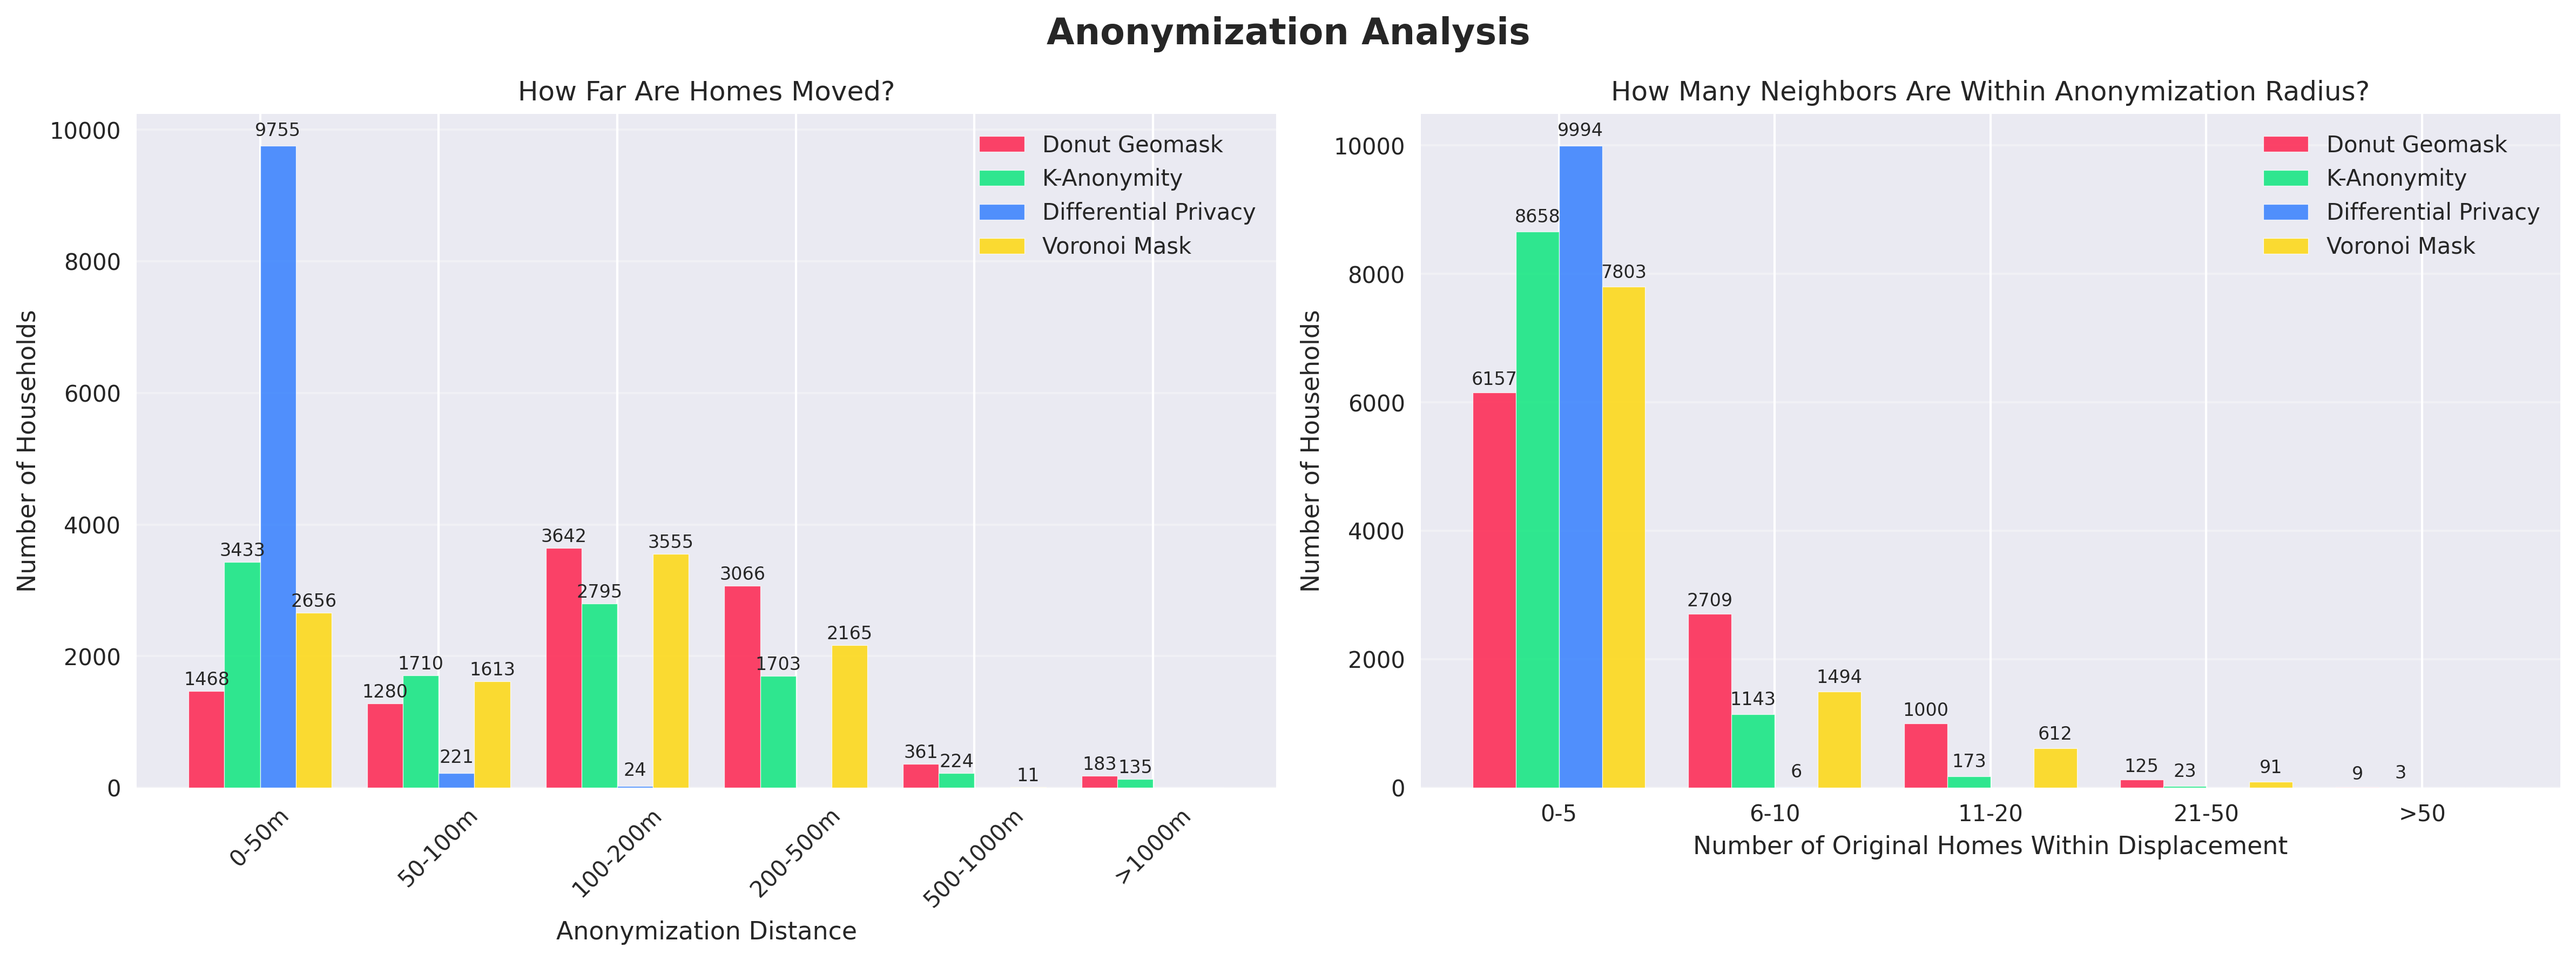
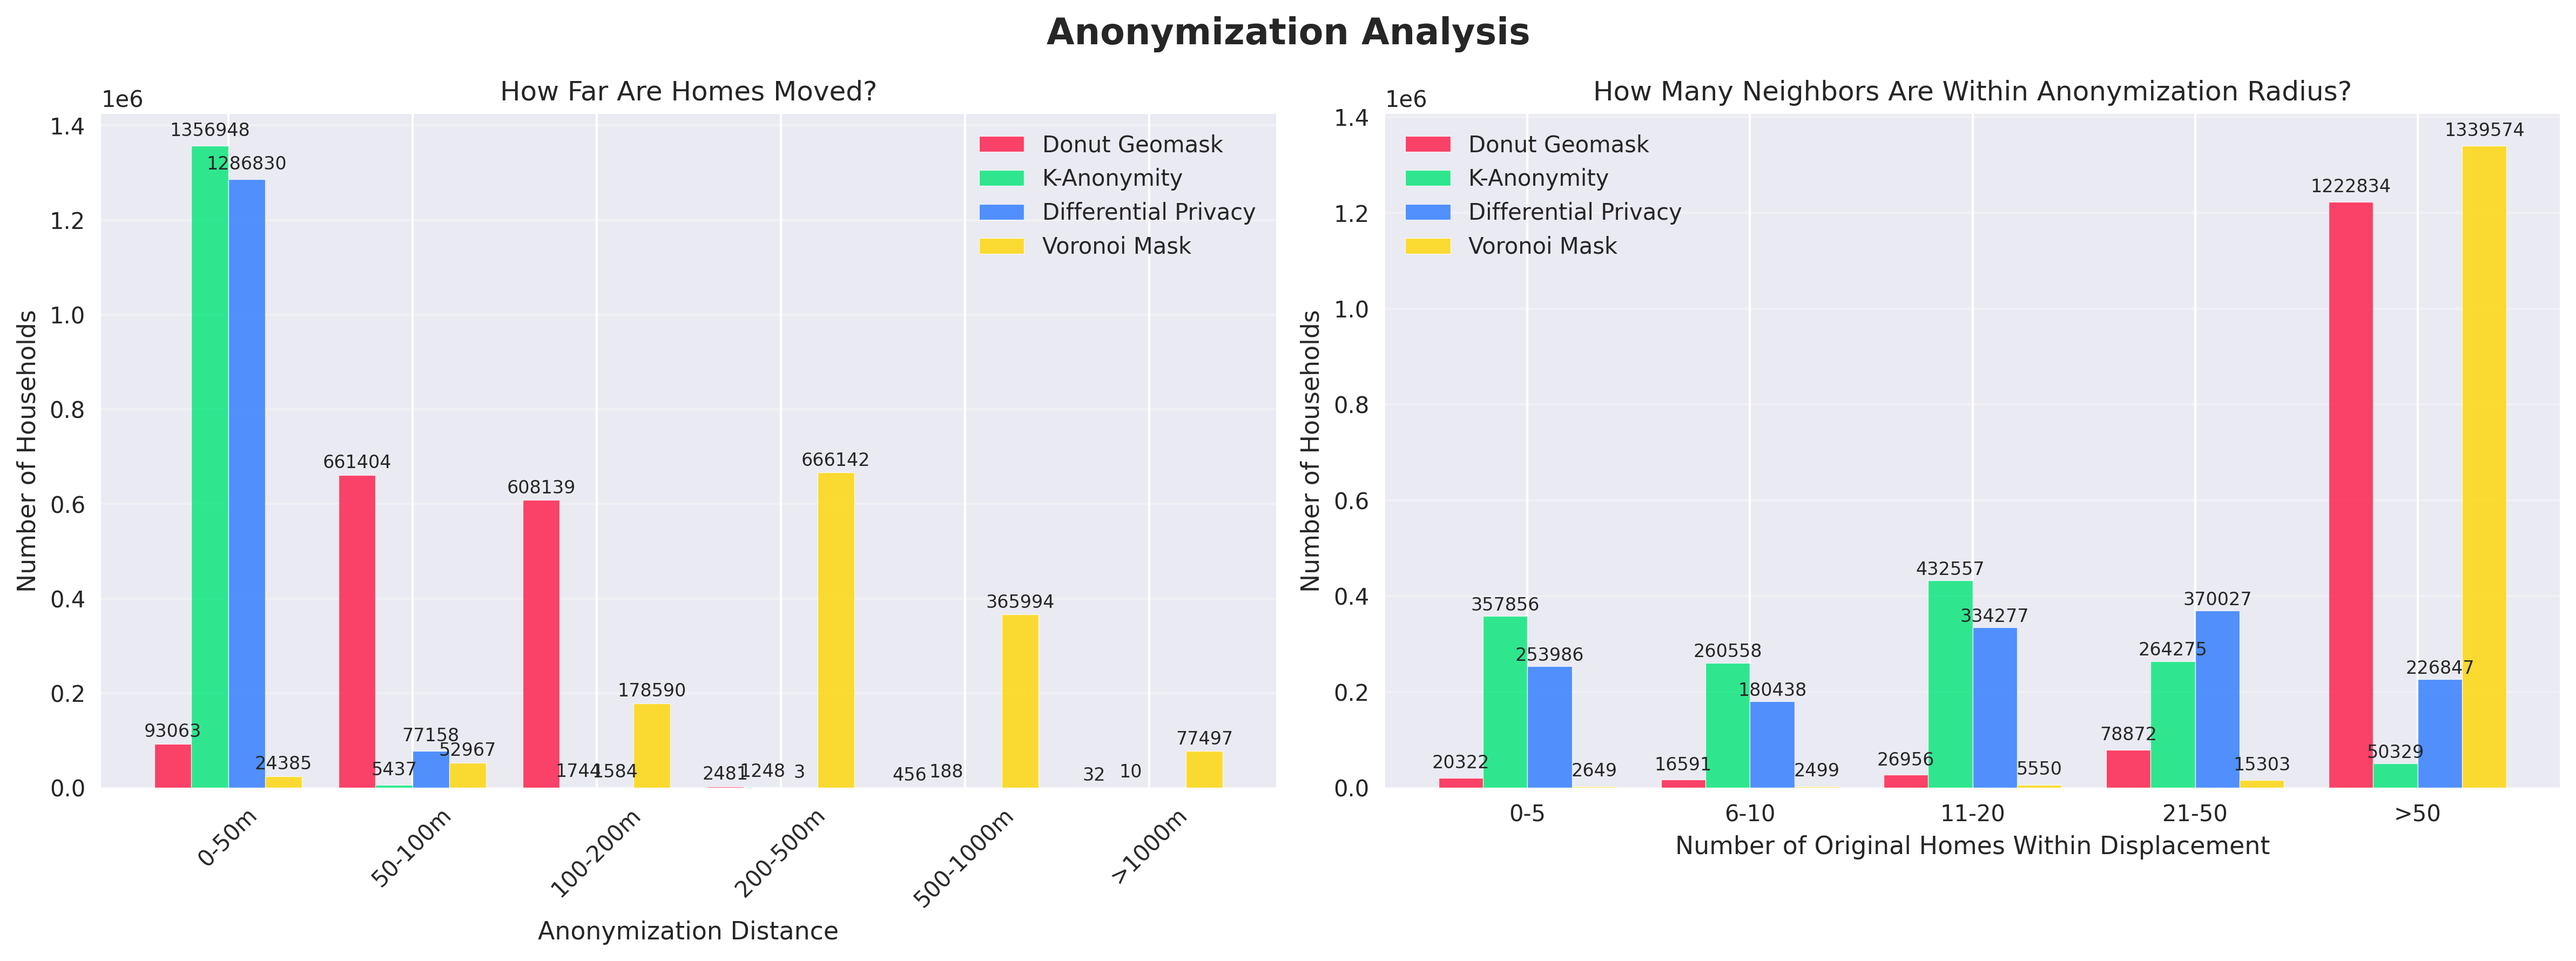
add new anonimization plots

diff --git a/anonimization/analyze_results.py b/anonimization/analyze_results.py
@@ -16,10 +16,10 @@ def create_anonymization_plots():
     
     # File mapping
     files = {
-        'Donut Geomask': 'anonymized_10k_donut_geomask.csv',
-        'K-Anonymity': 'anonymized_10k_k_anonymity.csv', 
-        'Differential Privacy': 'anonymized_10k_differential_privacy.csv',
-        'Voronoi Mask': 'anonymized_10k_voronoi_mask.csv'
+        'Donut Geomask': '/cluster/home/chaoch/full_donut_geomask.csv',
+        'K-Anonymity': '/cluster/home/chaoch/full_k_anonymity.csv', 
+        'Differential Privacy': '/cluster/home/chaoch/full_differential_privacy.csv',
+        'Voronoi Mask': '/cluster/home/chaoch/full_voronoi_mask.csv'
     }
     
     # Colors for each method

diff --git a/matsim/simulation/run.py b/matsim/simulation/run.py
@@ -34,8 +34,6 @@ def execute(context):
             # so one should set this to something other than 0, and preferebly to something 
             # that will output trips file at the end of the simulation
             "--config:controller.writeTripsInterval", str(1),
-            "--config:linkStats.writeLinkStatsInterval", str(1),
-            "--config:linkStats.averageLinkStatsOverIterations", str(1),
             "--config:eqasim.useScheduleBasedTransport", scheduleBasedPTconfig,
         ])
     else:

diff --git a/anonymization.md b/anonymization.md
@@ -1,0 +1,162 @@
+# Anonymization Methods
+
+## 1. Density-Aware Geomasking
+> finds a new random location that is within a min and max radius depending on the distance to the k-nearest neighbour. 
+
+1. Create KD tree to find nearest neighbour
+2. Compute maximum radius `r_max` of the perturbation region based on point's distance to kth nearest neighbour. 
+3. Samples a random new location within a donut (`[r_min, r_max]`). Moves to this new location if it's a valid location. Otherwise, move it to neighbour's location
+
+## 2. Spatial k-Anonymity
+> finds a radius that encapsulates k neighbours and samples a random location within that radius. Lacks formal guarantees.
+1. Using KD tree determines the distance needed to contain k nearest neighbours
+2. Can project to a region, centroid of the k-neighbours, or random location within the circle
+(not sure how to deal with region identifiers)
+
+## 3. Geo-Differential Privacy
+> Given a privacy budget, moves coordinates according to a Laplace distribution
+1. Samples `dx` and `dy` from Laplace distribution based on privacy budget `epsilon`. `epsilon` is the inverse of the variance of the Laplace distribution.
+(not density aware)
+
+## 4. Adaptive Voronoi
+> finds a point within a polygon of its cluster 
+
+1. Cluster points into regions 
+2. For each cluster, compute a region (polygon) that can encapsulate all points in that region
+3. For each point in the polygon, sample a random point inside it. If the new location is invalid, use the location of the centroid. 
+
+1. DISPLACEMENT METRICS:
+--------------------------------------------------------------------------------
+How far points move from their original location.
+- Mean/Median: Average distance moved (lower = more accurate, higher = more private)
+- Max: Worst-case displacement
+- Std: Consistency of displacement (lower = more predictable)
+
+--------------------------------------------------------------------------------
+2. K-ANONYMITY PRESERVATION RATES:
+--------------------------------------------------------------------------------
+Higher values = better privacy (harder to isolate individuals by their neighbors).
+- k=3: At least 3 neighbors preserved (basic privacy)
+- k=5: At least 5 neighbors preserved (moderate privacy)  
+- k=10: At least 10 neighbors preserved (strong privacy)
+Values closer to 1.0 mean neighborhoods are well-preserved.
+
+--------------------------------------------------------------------------------
+3. RE-IDENTIFICATION RISK:
+--------------------------------------------------------------------------------
+Measures how easily original individuals can be identified in anonymized data.
+- Re-identification rate: % of points correctly matched within 50m (lower = more private)
+- Unique points ratio: % of points that are uniquely identifiable (lower = more private)
+- Avg confusion distance: Average distance to closest point (higher = more confusion = more private)
+Good anonymization should have LOW re-identification rate and unique points ratio.
+
+--------------------------------------------------------------------------------
+4. SPATIAL DISTRIBUTION PRESERVATION:
+--------------------------------------------------------------------------------
+Measures how well the overall spatial pattern is maintained.
+- Entropy preservation: Ratio of spatial uniformity (1.0 = perfect, >1.0 = more spread, <1.0 = more clustered)
+- Ripley's K correlation: Correlation of clustering patterns at multiple scales (1.0 = perfect preservation)
+Higher values = better utility for spatial analysis.
+
+--------------------------------------------------------------------------------
+5. NEIGHBOR PRESERVATION:
+--------------------------------------------------------------------------------
+Measures how well relationships between nearby points are maintained.
+- Mean neighbor preservation: % of original neighbors still nearby (higher = better utility)
+- Mean rank correlation: How well neighbor ordering is preserved (higher = better utility)
+Values closer to 1.0 mean point relationships are well-preserved for analysis.
+
+--------------------------------------------------------------------------------
+6. DIRECTIONAL BIAS:
+--------------------------------------------------------------------------------
+Checks if displacement has systematic directional patterns (e.g., all points move north).
+- Directional bias: Strength of directional trend (0 = no bias, 1 = all same direction)
+- Circular variance: Measure of direction spread (higher = more random directions)
+- Is biased: True if bias > 0.3 threshold
+Good anonymization should have LOW directional bias (more unpredictable).
+
+--------------------------------------------------------------------------------
+7. DENSITY CORRELATION:
+--------------------------------------------------------------------------------
+Measures how well population density patterns are preserved.
+- Pearson correlation: Linear correlation of density grids (higher = better utility)
+- Density similarity: Overall similarity of distributions (1.0 = identical, 0 = completely different)
+- JS divergence: Statistical distance between distributions (lower = more similar)
+Higher correlation/similarity = better for demographic/urban analysis.
+
+
+--------------------------------------------------------------------------------
+8. QUERY ACCURACY:
+--------------------------------------------------------------------------------
+Measures accuracy of spatial queries on anonymized data (e.g., "how many people in area X?").
+- Query accuracy: Overall accuracy (closer to 1.0 = better)
+- Mean count error: Average error in counting points within radius
+- Mean precision: Correctness of returned results (higher = better)
+- Mean recall: Completeness of returned results (higher = better)
+Higher values = anonymized data gives more accurate answers to spatial queries.
+
+
+### 1. Displacement Metrics (meters)
+| Method | Mean | Median | Max | Std Dev |
+|--------|------|--------|-----|---------|
+| **Donut Geomask** | 323.4 | 248.0 | 1,997.1 | 263.6 |
+| **K-Anonymity** | 257.3 | 187.8 | 5,111.7 | 290.6 |
+| **Differential Privacy** | 19.9 | 16.7 | 123.3 | 14.0 |
+| **Voronoi Mask** | 180.3 | 162.3 | 808.6 | 116.7 |
+
+### 2. K-Anonymity Preservation Rates
+| Method | k=3 | k=5 | k=10 |
+|--------|-----|-----|------|
+| **Donut Geomask** | 0.669 | 0.699 | 0.805 |
+| **K-Anonymity** | 0.836 | 0.872 | 0.929 |
+| **Differential Privacy** | 0.999 | 1.000 | 1.000 |
+| **Voronoi Mask** | 0.832 | 0.896 | 0.932 |
+
+### 3. Re-identification Risk
+| Method | Re-ID Rate | Unique Points | Avg Confusion Dist (m) |
+|--------|------------|---------------|------------------------|
+| **Donut Geomask** | 0.144 | 0.107 | 147.1 |
+| **K-Anonymity** | 0.208 | 0.151 | 144.9 |
+| **Differential Privacy** | 0.970 | 0.733 | 18.7 |
+| **Voronoi Mask** | 0.363 | 0.281 | 80.8 |
+
+### 4. Spatial Distribution Preservation
+| Method | Entropy Preservation | Ripley's K Correlation |
+|--------|---------------------|----------------------|
+| **Donut Geomask** | 1.011 | 1.000 |
+| **K-Anonymity** | 1.009 | 1.000 |
+| **Differential Privacy** | 1.003 | 1.000 |
+| **Voronoi Mask** | 0.973 | 1.000 |
+
+### 5. Neighbor Preservation
+| Method | Mean Neighbor Preservation | Mean Rank Correlation |
+|--------|---------------------------|---------------------|
+| **Donut Geomask** | 0.298 | 0.489 |
+| **K-Anonymity** | 0.416 | 0.602 |
+| **Differential Privacy** | 0.879 | 0.919 |
+| **Voronoi Mask** | 0.465 | 0.631 |
+
+### 6. Directional Bias
+| Method | Directional Bias | Circular Variance | Is Biased |
+|--------|-----------------|------------------|-----------|
+| **Donut Geomask** | 0.017 | 0.983 | No |
+| **K-Anonymity** | 0.007 | 0.993 | No |
+| **Differential Privacy** | 0.014 | 0.986 | No |
+| **Voronoi Mask** | 0.035 | 0.965 | No |
+
+### 7. Density Correlation
+| Method | Pearson Correlation | Density Similarity | JS Divergence |
+|--------|-------------------|------------------|---------------|
+| **Donut Geomask** | 0.477 | 0.624 | 0.376 |
+| **K-Anonymity** | 0.561 | 0.662 | 0.338 |
+| **Differential Privacy** | 0.940 | 0.955 | 0.045 |
+| **Voronoi Mask** | 0.672 | 0.785 | 0.215 |
+
+### 8. Query Accuracy
+| Method | Query Accuracy | Mean Count Error | Mean Precision | Mean Recall |
+|--------|---------------|-----------------|----------------|-------------|
+| **Donut Geomask** | 1.000 | 0.5 | 0.629 | 0.704 |
+| **K-Anonymity** | 1.000 | 0.3 | 0.667 | 0.783 |
+| **Differential Privacy** | 1.000 | 0.1 | 0.997 | 0.971 |
+| **Voronoi Mask** | 1.000 | 0.2 | 0.969 | 0.744 |
+
